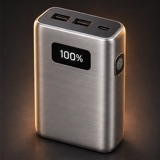
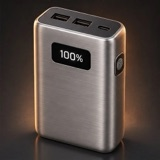
Replace PowerBank renders with photorealistic images
Generated in Gemini from each capacity's original render (same design per
size: silver 10K, navy 20K, carbon 30K, green rugged 40K, bronze 50K) with
matching studio lighting. Email thumbnails regenerated.

Changed region(s): [[0.0938, 0.7812, 0.25, 0.9688], [0.75, 0.7812, 0.9062, 0.9375], [0.2188, 0.0938, 0.25, 0.125]]

diff --git a/app/page.tsx b/app/page.tsx
@@ -127,7 +127,7 @@ export default function Home() {
           <div className="tile-media">
             <Image
               className="case-img"
-              src="/products/power-3.webp"
+              src="/products/power-3.jpg"
               alt="Personal PowerBank, concept render"
               width={512}
               height={512}

diff --git a/lib/catalog.ts b/lib/catalog.ts
@@ -19,7 +19,7 @@ const powerBanks: Product[] = Array.from({ length: 5 }, (_, i) => {
     line: "Personal PowerBank",
     summary: "Portable power that only unlocks with your fingerprint.",
     price: 29000 + i * 10000,
-    image: `/products/power-${i + 1}.webp`,
+    image: `/products/power-${i + 1}.jpg`,
     capacity,
   };
 });
